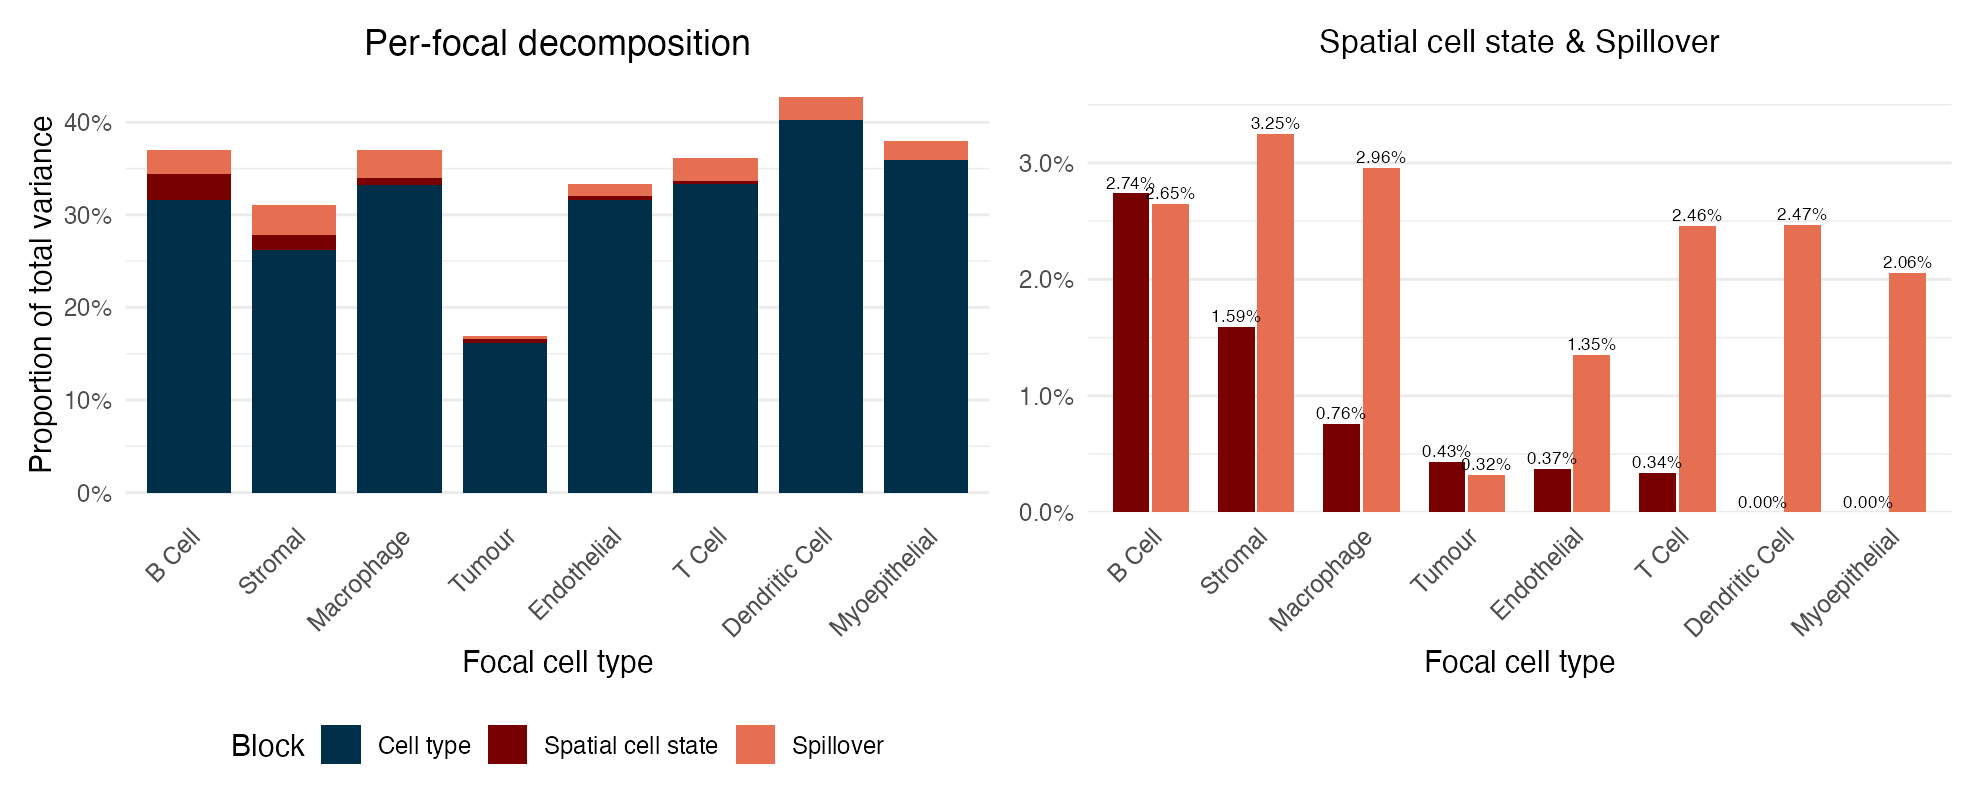
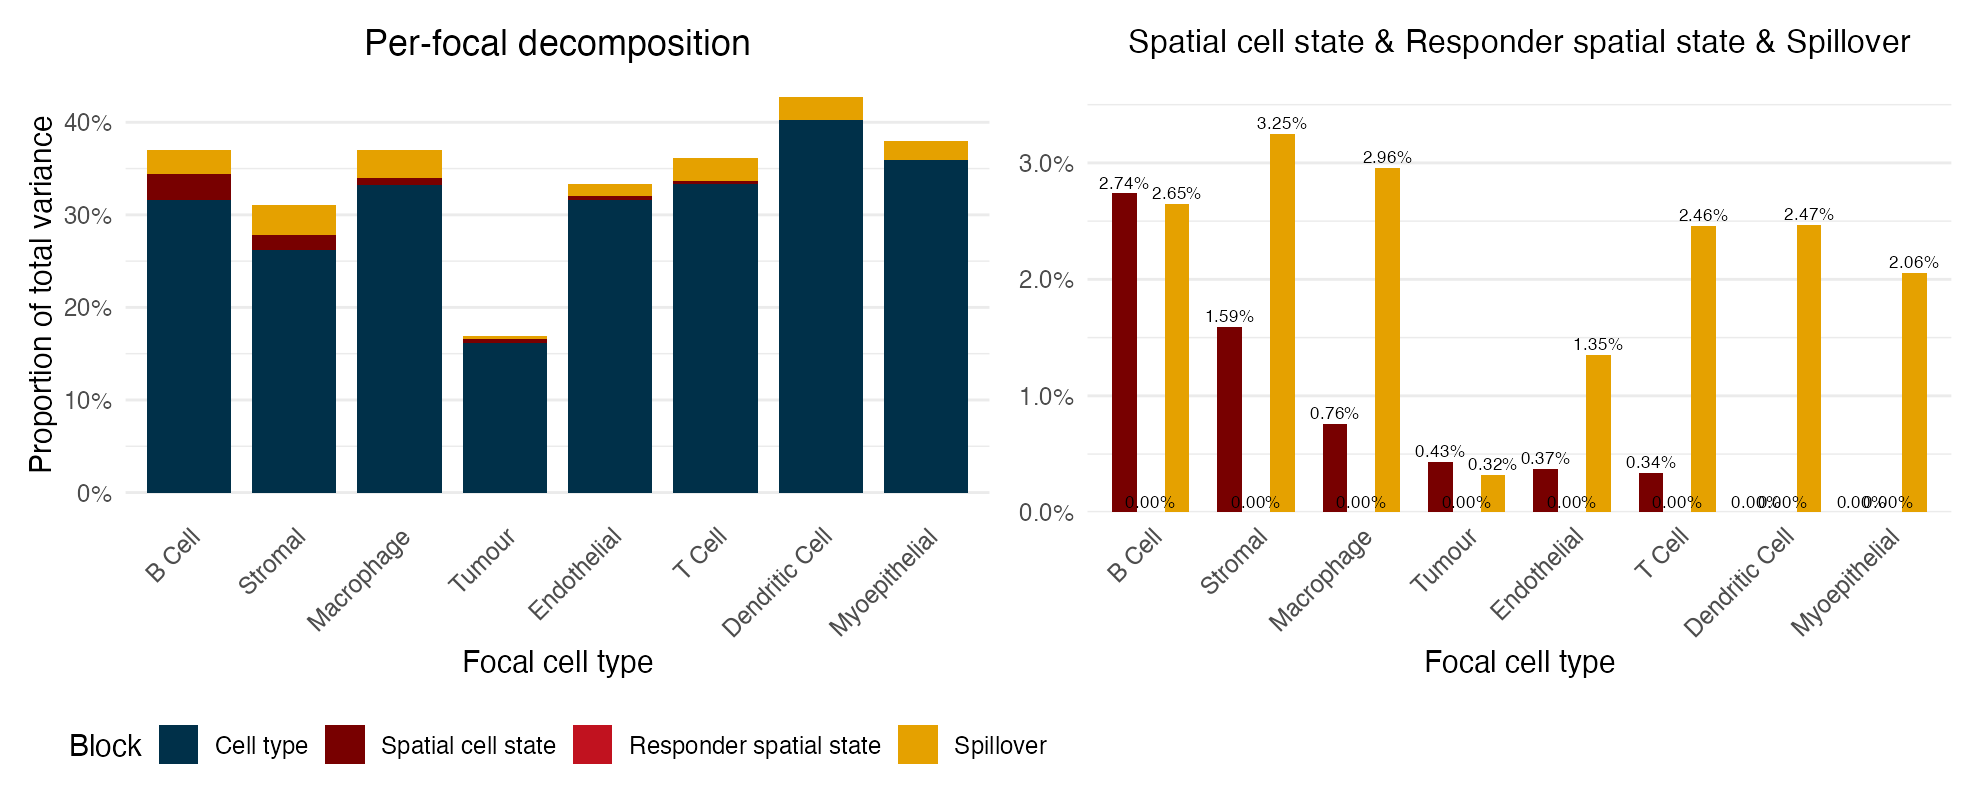
Deploy: condition cohort support

diff --git a/articles/PACE.html b/articles/PACE.html
@@ -168,7 +168,7 @@ whole pipeline. On this crop it takes about half a minute.</p>
 <span><span class="co">#&gt;  - Computing 278 x 313 likelihood matrix.</span></span>
 <span><span class="co">#&gt;  - Likelihood calculations took 0.05 seconds.</span></span>
 <span><span class="co">#&gt;  - Fitting model with 313 mixture components.</span></span>
-<span><span class="co">#&gt;  - Model fitting took 0.10 seconds.</span></span>
+<span><span class="co">#&gt;  - Model fitting took 0.09 seconds.</span></span>
 <span><span class="co">#&gt;  - Computing posterior matrices.</span></span>
 <span><span class="co">#&gt;  - Computation allocated took 0.00 seconds.</span></span>
 <span><span class="co">#&gt;  - Computing 278 x 92 likelihood matrix.</span></span>
@@ -180,51 +180,51 @@ whole pipeline. On this crop it takes about half a minute.</p>
 <span><span class="co">#&gt;  - Computing 278 x 404 likelihood matrix.</span></span>
 <span><span class="co">#&gt;  - Likelihood calculations took 0.06 seconds.</span></span>
 <span><span class="co">#&gt;  - Fitting model with 404 mixture components.</span></span>
-<span><span class="co">#&gt;  - Model fitting took 0.15 seconds.</span></span>
+<span><span class="co">#&gt;  - Model fitting took 0.16 seconds.</span></span>
 <span><span class="co">#&gt;  - Computing posterior matrices.</span></span>
 <span><span class="co">#&gt;  - Computation allocated took 0.00 seconds.</span></span>
 <span><span class="co">#&gt;  - Computing 278 x 417 likelihood matrix.</span></span>
 <span><span class="co">#&gt;  - Likelihood calculations took 0.06 seconds.</span></span>
 <span><span class="co">#&gt;  - Fitting model with 417 mixture components.</span></span>
-<span><span class="co">#&gt;  - Model fitting took 0.29 seconds.</span></span>
+<span><span class="co">#&gt;  - Model fitting took 0.27 seconds.</span></span>
 <span><span class="co">#&gt;  - Computing posterior matrices.</span></span>
 <span><span class="co">#&gt;  - Computation allocated took 0.00 seconds.</span></span>
 <span><span class="co">#&gt;  - Computing 278 x 92 likelihood matrix.</span></span>
 <span><span class="co">#&gt;  - Likelihood calculations took 0.00 seconds.</span></span>
 <span><span class="co">#&gt;  - Fitting model with 92 mixture components.</span></span>
-<span><span class="co">#&gt;  - Model fitting took 0.02 seconds.</span></span>
+<span><span class="co">#&gt;  - Model fitting took 0.01 seconds.</span></span>
 <span><span class="co">#&gt;  - Computing posterior matrices.</span></span>
 <span><span class="co">#&gt;  - Computation allocated took 0.00 seconds.</span></span>
 <span><span class="co">#&gt;  - Computing 278 x 391 likelihood matrix.</span></span>
 <span><span class="co">#&gt;  - Likelihood calculations took 0.06 seconds.</span></span>
 <span><span class="co">#&gt;  - Fitting model with 391 mixture components.</span></span>
-<span><span class="co">#&gt;  - Model fitting took 0.12 seconds.</span></span>
+<span><span class="co">#&gt;  - Model fitting took 0.11 seconds.</span></span>
 <span><span class="co">#&gt;  - Computing posterior matrices.</span></span>
 <span><span class="co">#&gt;  - Computation allocated took 0.00 seconds.</span></span>
 <span><span class="co">#&gt;  - Computing 278 x 430 likelihood matrix.</span></span>
-<span><span class="co">#&gt;  - Likelihood calculations took 0.06 seconds.</span></span>
+<span><span class="co">#&gt;  - Likelihood calculations took 0.07 seconds.</span></span>
 <span><span class="co">#&gt;  - Fitting model with 430 mixture components.</span></span>
-<span><span class="co">#&gt;  - Model fitting took 0.15 seconds.</span></span>
+<span><span class="co">#&gt;  - Model fitting took 0.16 seconds.</span></span>
 <span><span class="co">#&gt;  - Computing posterior matrices.</span></span>
 <span><span class="co">#&gt;  - Computation allocated took 0.00 seconds.</span></span>
 <span><span class="co">#&gt;  - Computing 278 x 628 likelihood matrix.</span></span>
 <span><span class="co">#&gt;  - Likelihood calculations took 0.10 seconds.</span></span>
 <span><span class="co">#&gt;  - Fitting model with 628 mixture components.</span></span>
-<span><span class="co">#&gt;  - Model fitting took 0.28 seconds.</span></span>
+<span><span class="co">#&gt;  - Model fitting took 0.27 seconds.</span></span>
 <span><span class="co">#&gt;  - Computing posterior matrices.</span></span>
 <span><span class="co">#&gt;  - Computation allocated took 0.00 seconds.</span></span>
 <span><span class="co">#&gt;  - Computing 278 x 404 likelihood matrix.</span></span>
-<span><span class="co">#&gt;  - Likelihood calculations took 0.06 seconds.</span></span>
+<span><span class="co">#&gt;  - Likelihood calculations took 0.07 seconds.</span></span>
 <span><span class="co">#&gt;  - Fitting model with 404 mixture components.</span></span>
 <span><span class="co">#&gt;  - Model fitting took 0.44 seconds.</span></span>
 <span><span class="co">#&gt;  - Computing posterior matrices.</span></span>
 <span><span class="co">#&gt;  - Computation allocated took 0.00 seconds.</span></span>
 <span><span class="co">#&gt;  - Computing 278 x 590 likelihood matrix.</span></span>
-<span><span class="co">#&gt;  - Likelihood calculations took 0.09 seconds.</span></span>
+<span><span class="co">#&gt;  - Likelihood calculations took 0.10 seconds.</span></span>
 <span><span class="co">#&gt;  - Fitting model with 590 mixture components.</span></span>
-<span><span class="co">#&gt;  - Model fitting took 1.16 seconds.</span></span>
+<span><span class="co">#&gt;  - Model fitting took 1.12 seconds.</span></span>
 <span><span class="co">#&gt;  - Computing posterior matrices.</span></span>
-<span><span class="co">#&gt;  - Computation allocated took 0.00 seconds.</span></span>
+<span><span class="co">#&gt;  - Computation allocated took 0.01 seconds.</span></span>
 <span><span class="va">fit</span></span>
 <span><span class="co">#&gt; class: PACEFit</span></span>
 <span><span class="co">#&gt; cell types (8): B_Cell, Dendritic_Cell, Endothelial, Macrophage, Myoepithelial, Stromal, T_Cell, Tumour</span></span>

diff --git a/reference/plotPairHeatmap.html b/reference/plotPairHeatmap.html
@@ -46,10 +46,7 @@ off-diagonal-renormalised Pratt attribution.</p>
 
     <div class="section level2">
     <h2 id="ref-usage">Usage<a class="anchor" aria-label="anchor" href="#ref-usage"></a></h2>
-    <div class="sourceCode"><pre class="sourceCode r"><code><span><span class="fu">plotPairHeatmap</span><span class="op">(</span></span>
-<span>  <span class="va">object</span>,</span>
-<span>  title <span class="op">=</span> <span class="st">"Pairwise spatial % (variance, normalised Pratt)"</span></span>
-<span><span class="op">)</span></span></code></pre></div>
+    <div class="sourceCode"><pre class="sourceCode r"><code><span><span class="fu">plotPairHeatmap</span><span class="op">(</span><span class="va">object</span>, block <span class="op">=</span> <span class="fu"><a href="https://rdrr.io/r/base/c.html" class="external-link">c</a></span><span class="op">(</span><span class="st">"spatial"</span>, <span class="st">"responder"</span><span class="op">)</span>, title <span class="op">=</span> <span class="cn">NULL</span><span class="op">)</span></span></code></pre></div>
     </div>
 
     <div class="section level2">
@@ -60,8 +57,14 @@ off-diagonal-renormalised Pratt attribution.</p>
 <dd><p>A <a href="PACEFit-class.html">PACEFit</a>.</p></dd>
 
 
+<dt id="arg-block">block<a class="anchor" aria-label="anchor" href="#arg-block"></a></dt>
+<dd><p>Which spatial block to map: <code>"spatial"</code> (default, the baseline
+spatial cell state) or <code>"responder"</code> (the responder-by-proximity block, for
+condition cohorts).</p></dd>
+
+
 <dt id="arg-title">title<a class="anchor" aria-label="anchor" href="#arg-title"></a></dt>
-<dd><p>Plot title.</p></dd>
+<dd><p>Plot title; a sensible default is chosen per <code>block</code>.</p></dd>
 
 </dl></div>
     <div class="section level2">
@@ -71,7 +74,8 @@ off-diagonal-renormalised Pratt attribution.</p>
 
     <div class="section level2">
     <h2 id="ref-examples">Examples<a class="anchor" aria-label="anchor" href="#ref-examples"></a></h2>
-    <div class="sourceCode"><pre class="sourceCode r"><code><span class="r-in"><span><span class="kw">if</span> <span class="op">(</span><span class="cn">FALSE</span><span class="op">)</span>  <span class="fu">plotPairHeatmap</span><span class="op">(</span><span class="va">fit</span><span class="op">)</span>  <span class="co"># \dontrun{}</span></span></span>
+    <div class="sourceCode"><pre class="sourceCode r"><code><span class="r-in"><span><span class="kw">if</span> <span class="op">(</span><span class="cn">FALSE</span><span class="op">)</span>  <span class="fu">plotPairHeatmap</span><span class="op">(</span><span class="va">fit</span><span class="op">)</span>; <span class="fu">plotPairHeatmap</span><span class="op">(</span><span class="va">fit</span>, block <span class="op">=</span> <span class="st">"responder"</span><span class="op">)</span>  <span class="co"># \dontrun{}</span></span></span>
+<span class="r-err co"><span class="r-pr">#&gt;</span> <span class="error">Error:</span> object 'fit' not found</span>
 </code></pre></div>
     </div>
   </main><aside class="col-md-3"><nav id="toc" aria-label="Table of contents"><h2>On this page</h2>